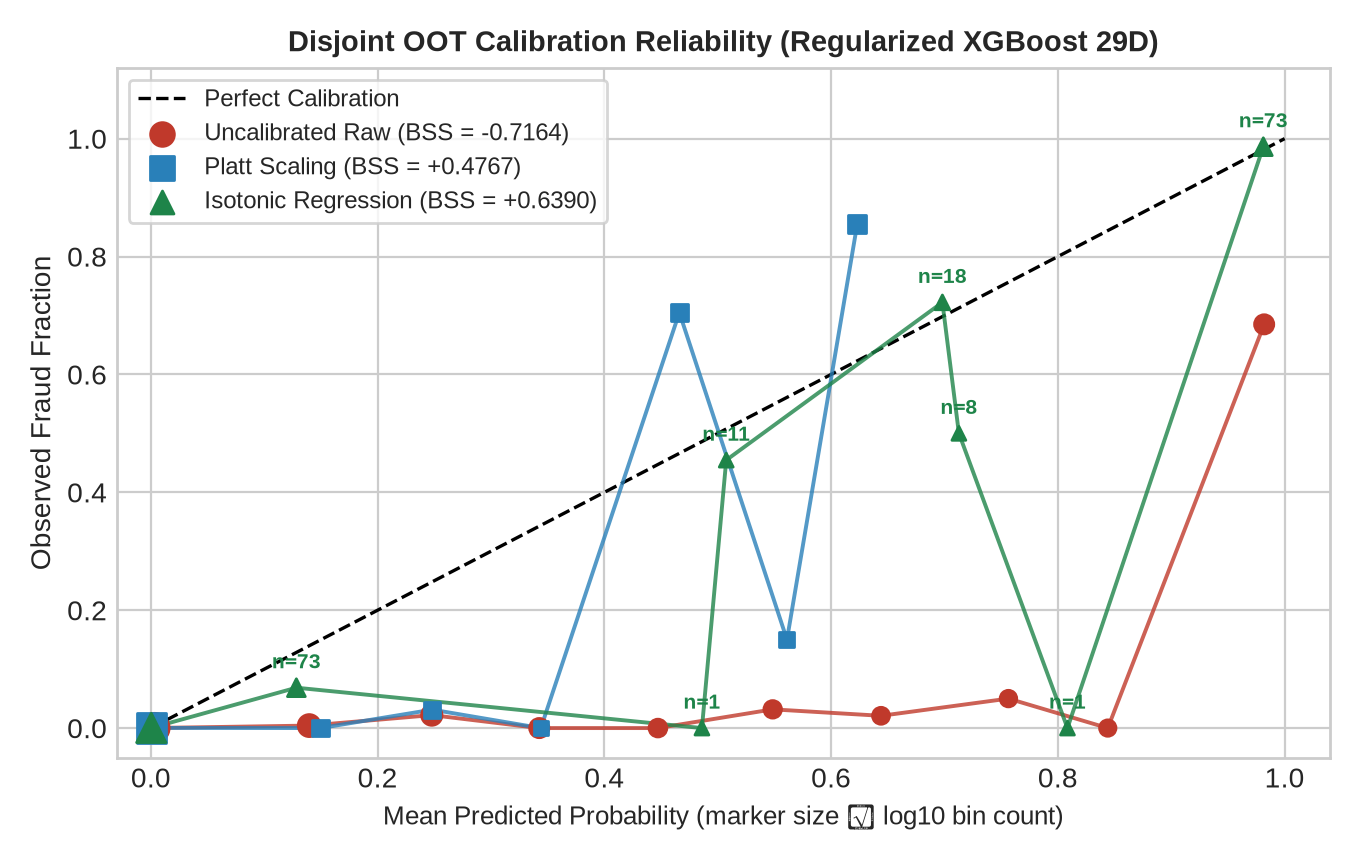
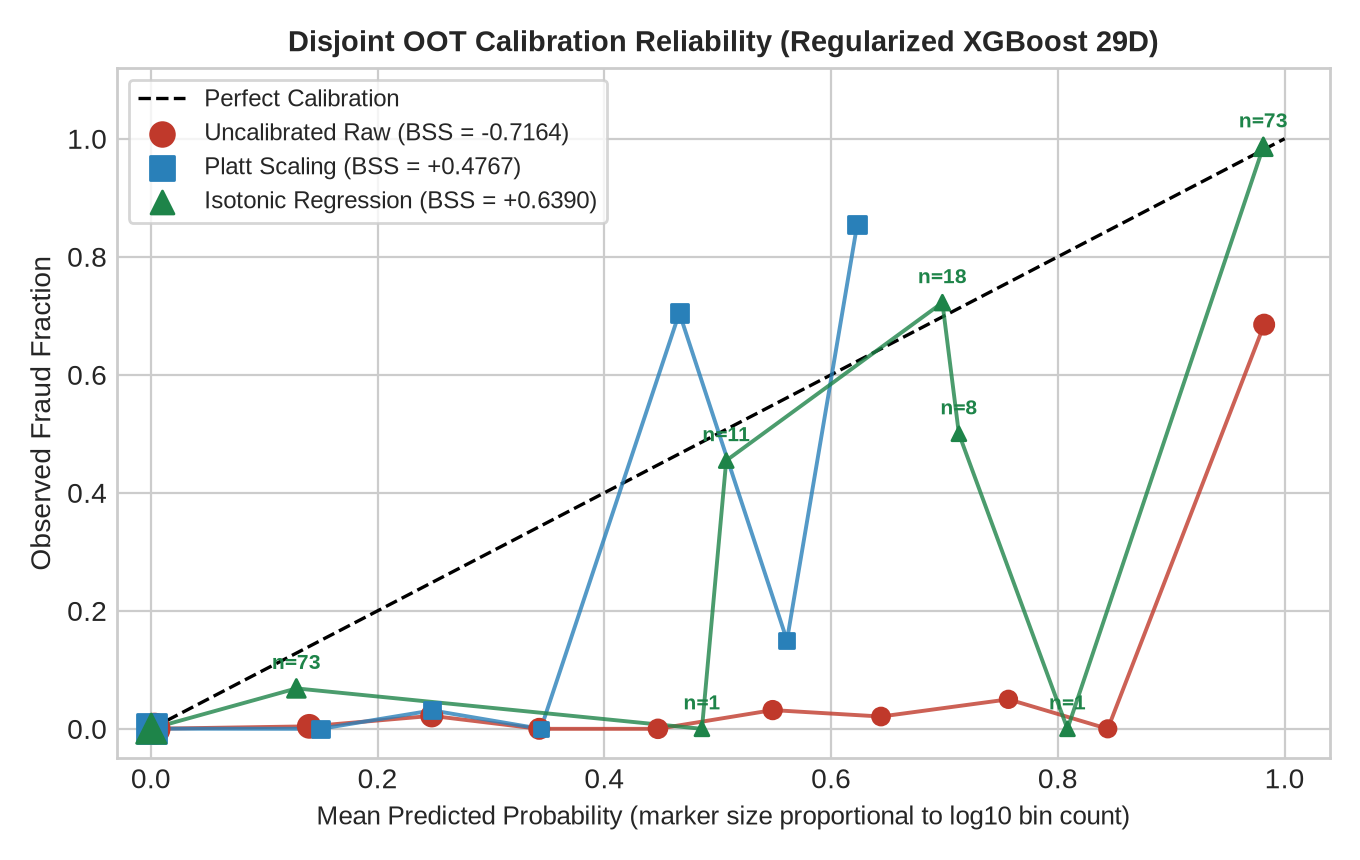
fix(figures): replace missing-glyph symbol in reliability plot x-axis

diff --git a/src/ml/update_final_figures.py b/src/ml/update_final_figures.py
@@ -111,7 +111,7 @@ if __name__ == "__main__":
                 if x > 0.05:
                     ax.annotate(f"n={c}", (x, y), textcoords="offset points", xytext=(0, 7), ha="center", fontsize=7.5, color=color, fontweight="bold")
 
-    ax.set_xlabel("Mean Predicted Probability (marker size ∝ log10 bin count)", fontsize=9.5)
+    ax.set_xlabel("Mean Predicted Probability (marker size proportional to log10 bin count)", fontsize=9.5)
     ax.set_ylabel("Observed Fraud Fraction", fontsize=10)
     ax.set_title("Disjoint OOT Calibration Reliability (Regularized XGBoost 29D)", fontsize=10.5, fontweight="bold")
     ax.set_xlim(-0.03, 1.04)
